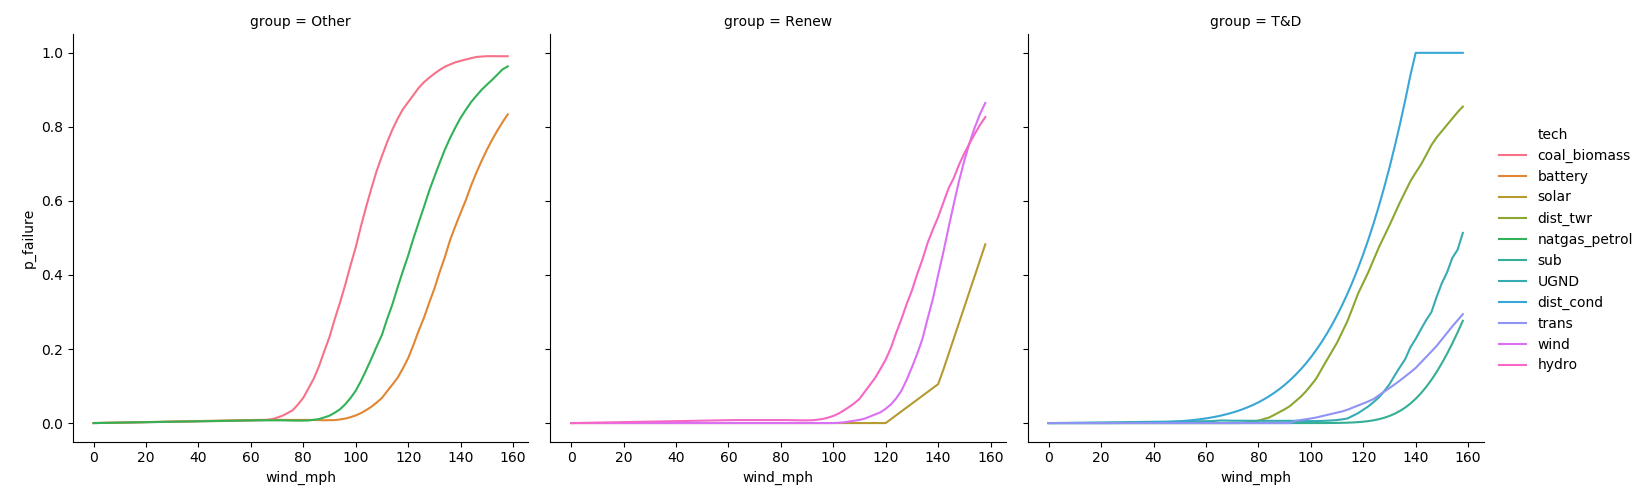
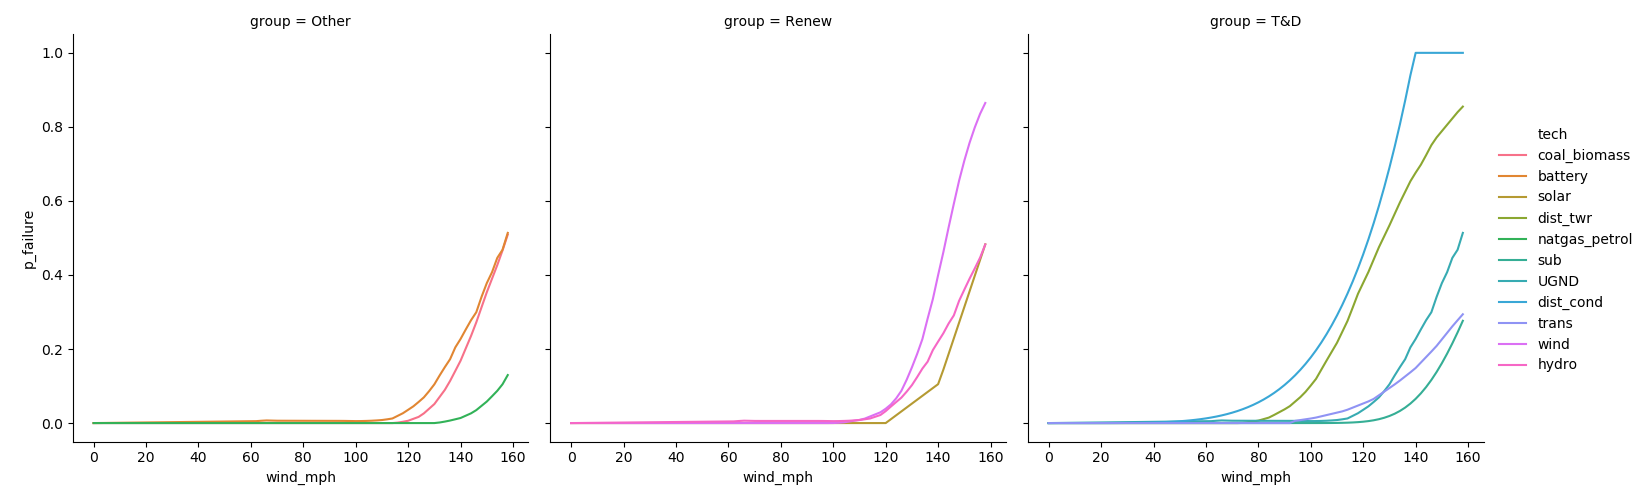
updated scenarios (and selected fragility curves)

diff --git a/examples/puerto_rico_stoch/fragility_curves/select_fragility_curves.py b/examples/puerto_rico_stoch/fragility_curves/select_fragility_curves.py
@@ -66,13 +66,22 @@ plt.savefig("fragility_curves_by_tech.png", DPI=1000)
 #                "battery": "secbl_severe",
 #                "hydro": "cecbl_severe", "UGND":"secbl_severe"}
 
+# curves = {"trans": "trans_UK_base",
+#                 "sub": "sub_HAZUS_severe_k3", "dist_cond": "dist_cond_TX", "dist_twr": "dist_60yr", "wind": "wind_nonyaw",
+#                 "solar": "solar_utility",
+#                 "coal_biomass": "secbh_moderate",
+#                 "natgas_petrol": "secbm_moderate",
+#                 "battery": "secbl_moderate",
+#                 "hydro": "cecbl_moderate",
+#                 "UGND":"secbl_severe"}
+
 curves = {"trans": "trans_UK_base",
                 "sub": "sub_HAZUS_severe_k3", "dist_cond": "dist_cond_TX", "dist_twr": "dist_60yr", "wind": "wind_nonyaw",
                 "solar": "solar_utility",
-                "coal_biomass": "secbh_moderate",
-                "natgas_petrol": "secbm_moderate",
-                "battery": "secbl_moderate",
-                "hydro": "cecbl_moderate",
+                "coal_biomass": "secbh_severe",
+                "natgas_petrol": "secbm_severe",
+                "battery": "secbl_severe",
+                "hydro": "cecbl_severe",
                 "UGND":"secbl_severe"}
 
 

diff --git a/examples/puerto_rico_stoch/write_stoch_input_files.py b/examples/puerto_rico_stoch/write_stoch_input_files.py
@@ -35,10 +35,10 @@ curves = {"inf_stiff": "inf_stiff",
                 "dist_twr": "dist_60yr",
                 "wind": "wind_nonyaw",
                 "solar": "solar_utility",
-                "coal_biomass": "secbh_moderate",
-                "natgas_petrol": "secbm_moderate",
-                "battery": "secbl_moderate",
-                "hydro": "cecbl_moderate",
+                "coal_biomass": "secbh_severe",
+                "natgas_petrol": "secbm_severe",
+                "battery": "secbl_severe",
+                "hydro": "cecbl_severe",
                 "UGND":"secbl_severe"}
 
 # Create directory to store outputs
